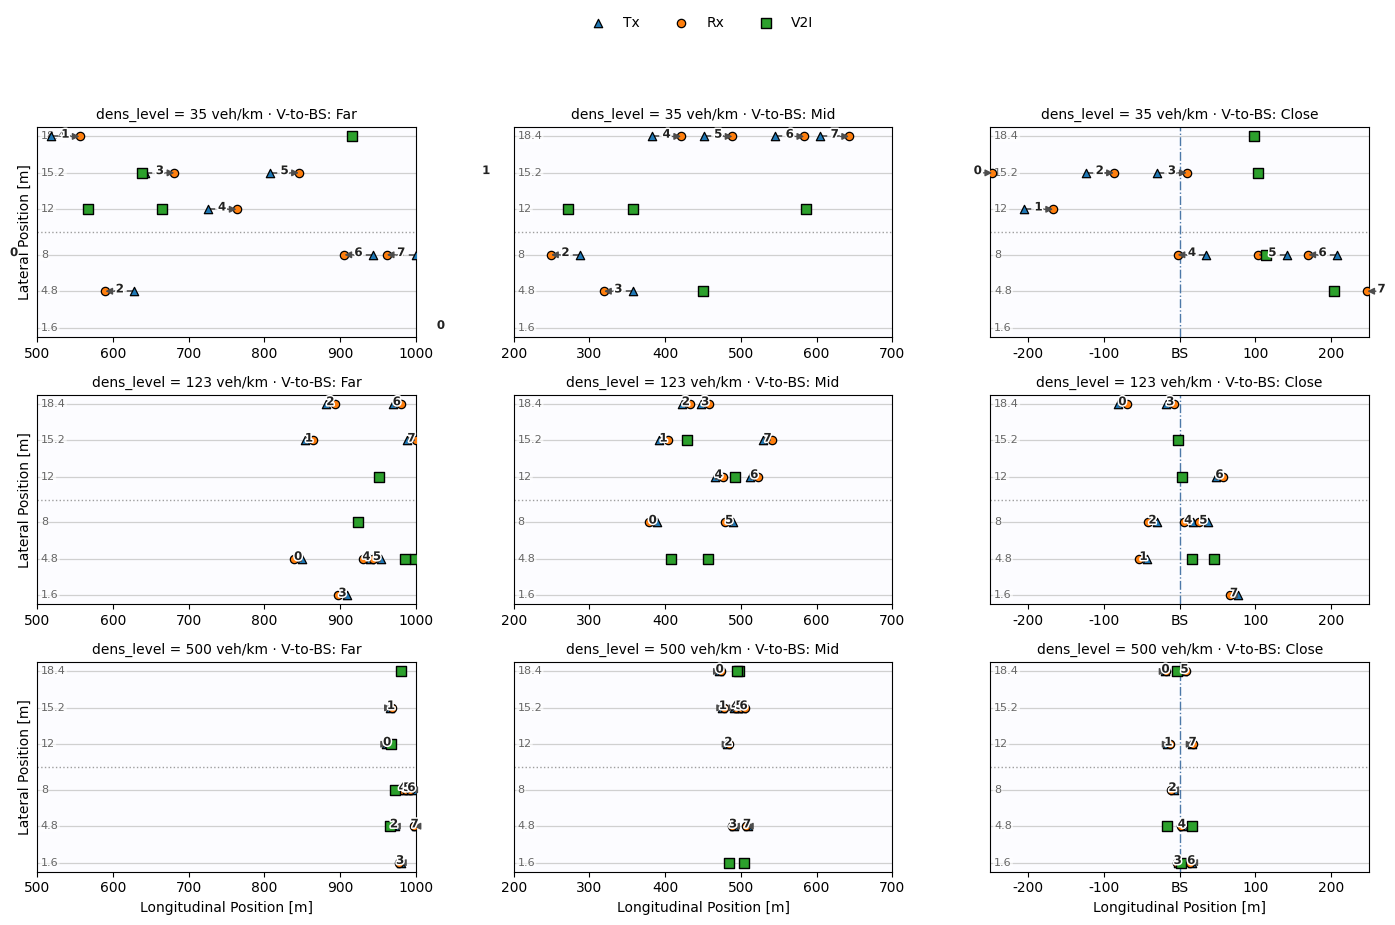
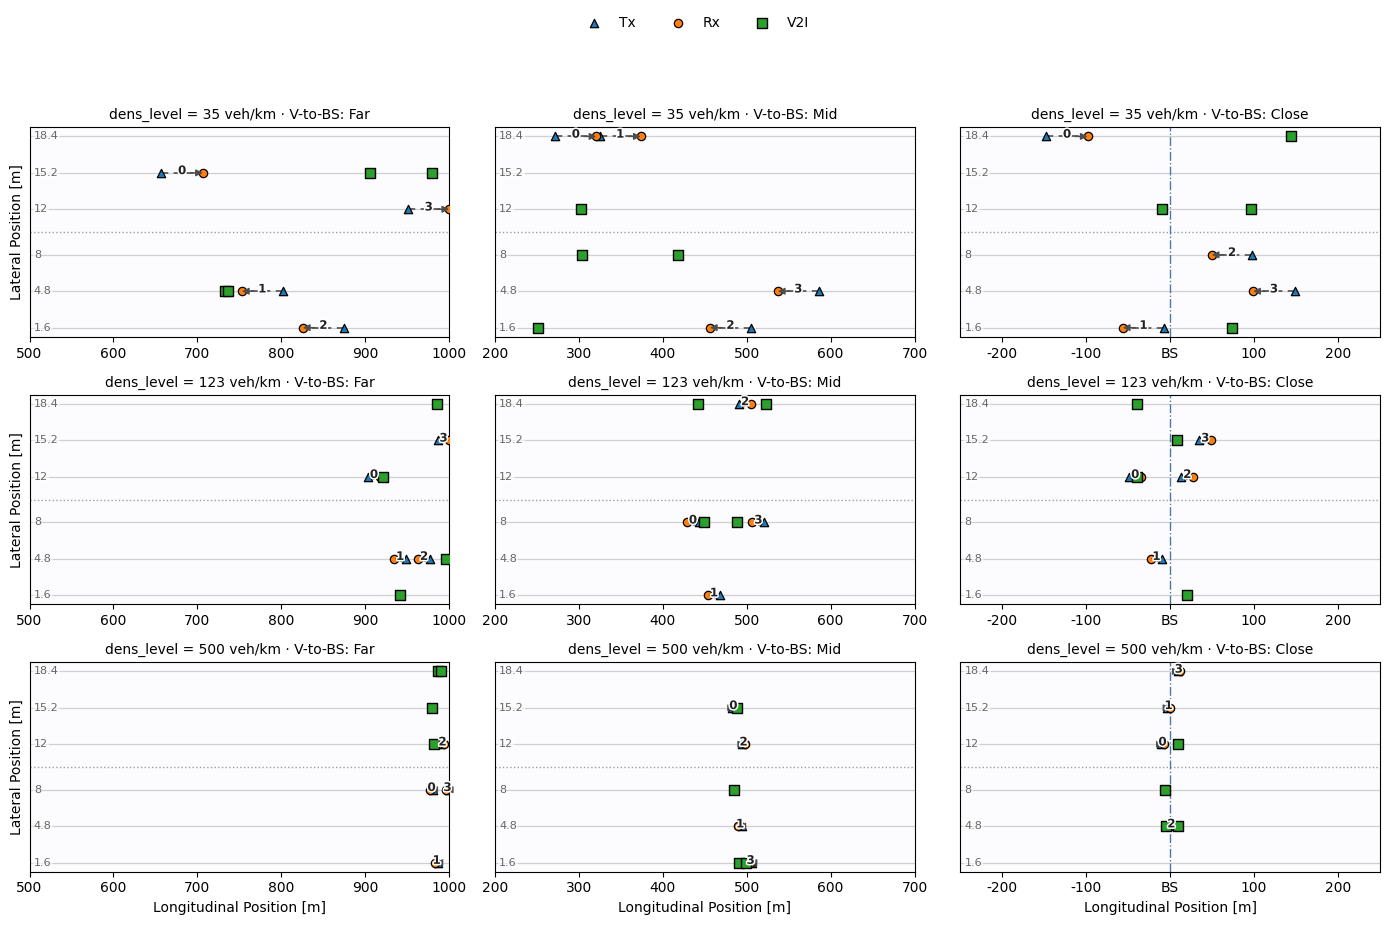
docs: refine README and fix image path

diff --git a/README.md b/README.md
@@ -90,7 +90,7 @@ python main.py --env SIG --algo idql
 python main.py --env POSIG --algo idql
 ```
 
-For NFIG and SIG SL, `--loc` selects one of 9 predefined vehicle topologies that vary traffic density and distance to the base station (BS):
+For NFIG and SIG SL, `--loc` selects one of 9 predefined vehicle topologies that vary traffic density and relative distance to the base station (BS). BS distance reflects the longitudinal offset between the road segment occupied by vehicles and the BS, which depends on the number of agents and vehicle density. All 9 topologies are supported for 4, 8, and 16 agents. For SIG ML and POSIG, the number of agents can be set to 4, 8, or 16 by changing `self.n_agent` in `Configuration/env_params.py` (default datasets are provided for all three settings). Algorithm hyperparameters and environment settings can be configured in the `Configuration/` directory.
 
 | `--loc` | Density | BS Distance |
 |---------|---------|-------------|
@@ -104,9 +104,16 @@ For NFIG and SIG SL, `--loc` selects one of 9 predefined vehicle topologies that
 | `7.0`   | High    | Mid         |
 | `8.0`   | High    | Close       |
 
-![Testing locations for L=4](assets/testing_dataset.png)
+<!-- ![Testing locations for L=4](Assets/testing_dataset.png) -->
 
-Algorithm hyperparameters and environment settings can be configured in the `Configuration/` directory. For SIG ML and POSIG, the number of agents can be set to 4, 8, or 16 by changing `self.n_agent` in `Configuration/env_params.py` (default datasets are provided for all three settings).
+<p align="center">
+  <img src="Assets/testing_dataset.png" alt="Testing locations for L=4">
+  <br>
+  <em>Nine testing topologies for the 4-agent setting.</em>
+</p>
+
+
+
 
 ---
 
